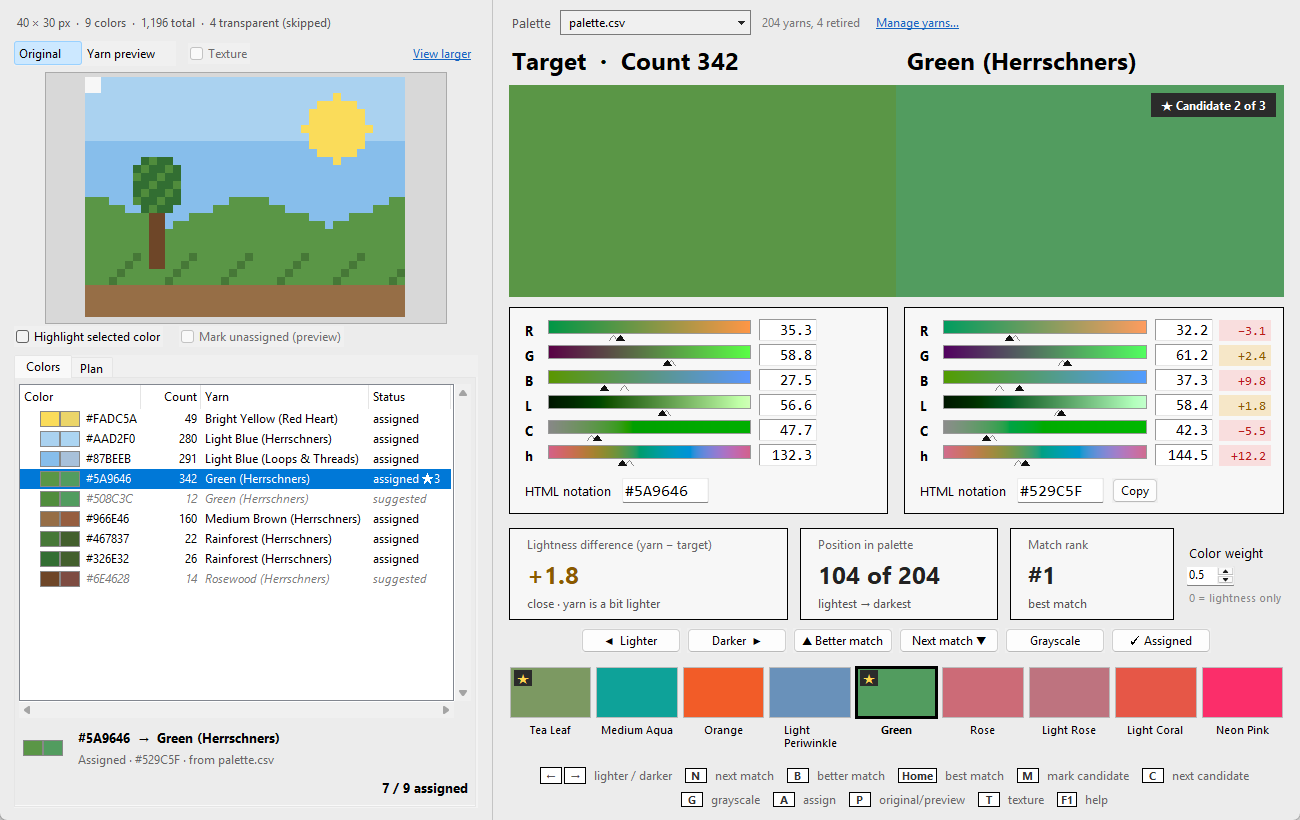
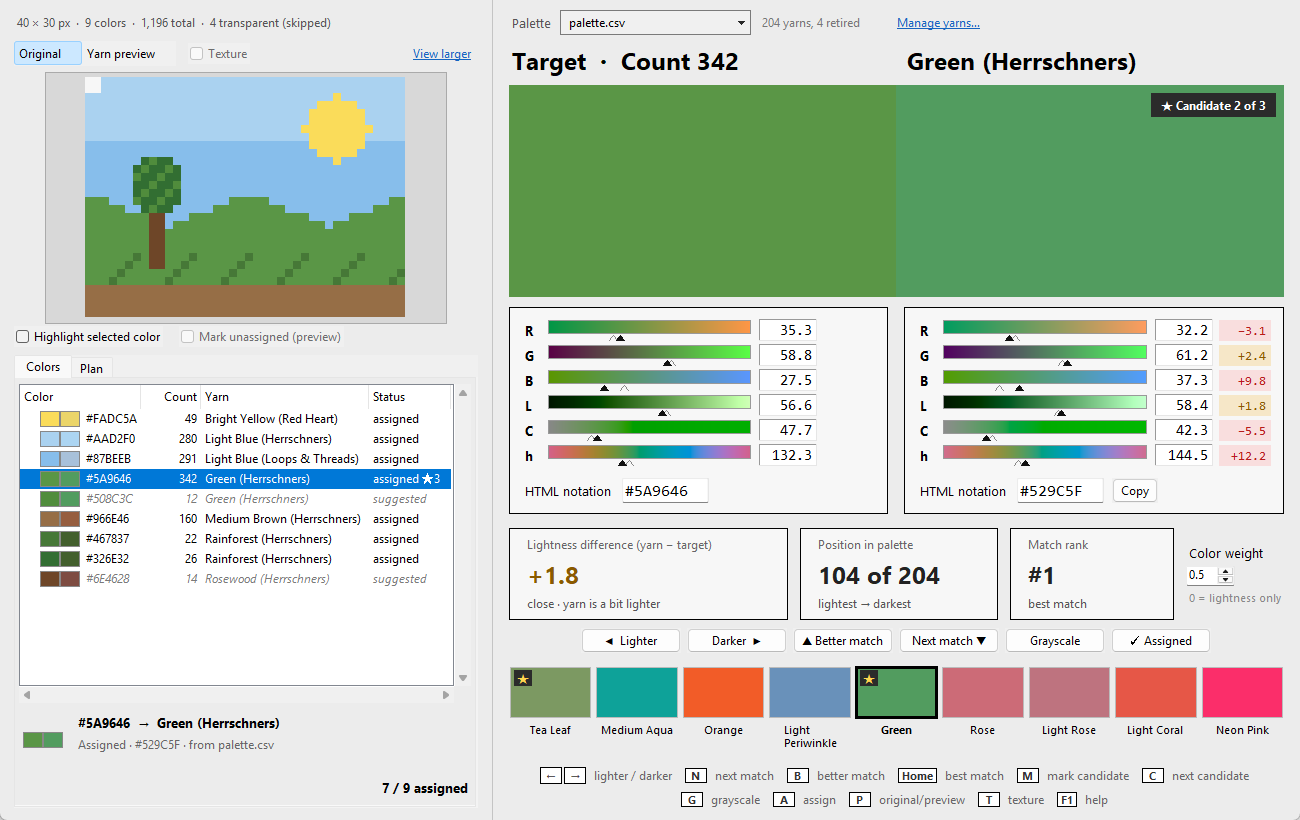
Keep layouts still as text changes
- Colors tab: the selected color's details always take two lines (and
  the swatch spot keeps its size), so the list no longer jumps.
- Main window: the yarn count has a fixed-width slot so Manage yarns
  stays put; the yarn hex message is shorter (no such yarn) and never
  widens its panel, which clipped it and nudged both halves at the
  minimum window size.
- Import: the problem list is always three lines (two + '... and N
  more'), so the table and action row stay put.
- Carry over: the dialog has its full size from the start; the summary,
  conflict and missing-yarn sections fill reserved room.

Changed region(s): [[0.0, 0.8537, 0.2154, 0.9451], [0.6769, 0.0, 0.7385, 0.0305], [0.3385, 0.8232, 0.3692, 0.8537]]

diff --git a/src/latchwork/carry_window.py b/src/latchwork/carry_window.py
@@ -1,6 +1,7 @@
 """Carry over assignments: give a project the yarns earlier projects used for the same hex."""
 import os
 import tkinter as tk
+import tkinter.font as tkfont
 from tkinter import filedialog, messagebox, ttk
 
 from .palette import label as yarn_label
@@ -58,15 +59,26 @@ class CarryDialog(tk.Toplevel):
         ttk.Button(side, text="Add project...", width=14, command=self.add).pack(pady=(0, 4))
         ttk.Button(side, text="Remove", width=14, command=self.remove).pack()
 
-        self.summary = tk.Label(self, bg=BG, font=("Segoe UI", 10, "bold"), justify="left",
+        # Everything below has a fixed size, so the dialog and its buttons stay put as
+        # projects are added: two lines each for the summary and details, and room for the
+        # conflict and missing-yarn sections even while they're empty.
+        bold, small = tkfont.Font(font=("Segoe UI", 10, "bold")), tkfont.Font(font=SMALL)
+        text = tk.Frame(self, bg=BG, height=2 * bold.metrics("linespace")
+                        + 2 * small.metrics("linespace") + 4)
+        text.pack(fill="x", pady=(10, 0))
+        text.pack_propagate(False)
+        self.summary = tk.Label(text, bg=BG, font=("Segoe UI", 10, "bold"), justify="left",
                                 anchor="w", wraplength=520)
-        self.summary.pack(fill="x", pady=(10, 0))
-        self.details = tk.Label(self, bg=BG, font=SMALL, fg="#555", justify="left", anchor="w",
+        self.summary.pack(fill="x")
+        self.details = tk.Label(text, bg=BG, font=SMALL, fg="#555", justify="left", anchor="w",
                                 wraplength=520)
         self.details.pack(fill="x")
+        self.area = tk.Frame(self, bg=BG, width=520)
+        self.area.pack(fill="x")
+        self.area.pack_propagate(False)
 
         # conflicts: the same hex got different yarns in different projects
-        self.conflict_box = tk.Frame(self, bg=BG)
+        self.conflict_box = tk.Frame(self.area, bg=BG)
         tk.Label(self.conflict_box, bg=BG, font=UI_FONT, anchor="w", justify="left",
                  wraplength=520, text="Different yarns for the same color. The newest project is "
                                       "picked; choose another if you like:").pack(fill="x")
@@ -81,9 +93,9 @@ class CarryDialog(tk.Toplevel):
         self.conflict_canvas.create_window(0, 0, window=self.conflict_rows, anchor="nw")
 
         # yarns that aren't in the active palette
-        self.missing_box = tk.Frame(self, bg=BG)
-        self.missing_text = tk.Label(self.missing_box, bg=BG, font=UI_FONT, anchor="w",
-                                     justify="left", wraplength=520)
+        self.missing_box = tk.Frame(self.area, bg=BG)
+        self.missing_text = tk.Label(self.missing_box, bg=BG, font=UI_FONT, anchor="nw",
+                                     justify="left", wraplength=520, height=2)
         self.missing_text.pack(fill="x")
         self.keep_missing = tk.BooleanVar(value=True)
         for value, text in ((True, "Keep them (assigned, as in the earlier project)"),
@@ -99,6 +111,7 @@ class CarryDialog(tk.Toplevel):
         self.bind("<Return>", lambda e: self.accept())
         self.bind("<Escape>", lambda e: self.destroy())
 
+        self.area.configure(height=self._area_height())
         for path in initial:
             self._add_path(path, quiet=True)
         self.rebuild()
@@ -107,6 +120,17 @@ class CarryDialog(tk.Toplevel):
         self.grab_set()
         self.focus_set()
         self.wait_window()
+
+    def _area_height(self):
+        """Room for the most conflict rows shown at once plus the missing-yarn section."""
+        probe = ttk.Combobox(self.conflict_rows, state="readonly", width=46)
+        probe.grid(row=0, column=2, pady=2)
+        self.update_idletasks()
+        row_h = probe.winfo_reqheight() + 4
+        probe.destroy()
+        heading = self.conflict_box.winfo_children()[0].winfo_reqheight()
+        return (10 + heading + 4 + CONFLICT_ROWS * row_h
+                + 10 + self.missing_box.winfo_reqheight())
 
     # ---------- sources ----------
     def _add_path(self, path, quiet=False):
@@ -186,7 +210,10 @@ class CarryDialog(tk.Toplevel):
                 self.conflict_scroll.pack(side="left", fill="y")
             else:
                 self.conflict_scroll.pack_forget()
-            self.conflict_box.pack(fill="x", pady=(10, 0), before=self.btns)
+            if self.missing_box.winfo_manager():
+                self.conflict_box.pack(fill="x", pady=(10, 0), before=self.missing_box)
+            else:
+                self.conflict_box.pack(fill="x", pady=(10, 0))
         else:
             self.conflict_box.pack_forget()
         self.update_view()
@@ -216,7 +243,7 @@ class CarryDialog(tk.Toplevel):
             self.missing_text.config(text="%d carried-over yarn%s %s in the active palette: %s."
                                      % (len(names), "" if len(names) == 1 else "s",
                                         "isn't" if len(names) == 1 else "aren't", _names(names)))
-            self.missing_box.pack(fill="x", pady=(10, 0), before=self.btns)
+            self.missing_box.pack(fill="x", pady=(10, 0))
         else:
             self.missing_box.pack_forget()
         if not self.sources:

diff --git a/src/latchwork/project_panel.py b/src/latchwork/project_panel.py
@@ -168,14 +168,16 @@ class ProjectPanel(tk.Frame):
         self.progress.pack(side="right")
         info = tk.Frame(tab, bg=BG)
         info.pack(side="bottom", fill="x", pady=(8, 0))
-        self.info_swatch = tk.Label(info, bg=BG)
+        self._no_pair = tk.PhotoImage(width=40, height=16)   # keeps the text in place
+        self.info_swatch = tk.Label(info, bg=BG, image=self._no_pair)
         self.info_swatch.pack(side="left", padx=(2, 10))
         text = tk.Frame(info, bg=BG)
         text.pack(side="left", fill="x", expand=True)
         self.info_title = tk.Label(text, font=("Segoe UI", 10, "bold"), bg=BG, anchor="w")
         self.info_title.pack(fill="x")
-        self.info_sub = tk.Label(text, font=("Segoe UI", 9), bg=BG, fg="#666", anchor="w",
-                                 justify="left", wraplength=IMG_W - 70)
+        # always two lines high, so the list above doesn't jump as the text changes
+        self.info_sub = tk.Label(text, font=("Segoe UI", 9), bg=BG, fg="#666", anchor="nw",
+                                 justify="left", wraplength=IMG_W - 70, height=2)
         self.info_sub.pack(fill="x")
 
         body = tk.Frame(tab, bg=BG)
@@ -383,7 +385,7 @@ class ProjectPanel(tk.Frame):
         self.progress.config(text="%d / %d assigned" % (p.assigned_count, len(p.colors)))
         c = p.entry(self.selected_hex()) if self.selected_hex() else None
         if c is None:
-            self.info_swatch.config(image="")
+            self.info_swatch.config(image=self._no_pair)
             self.info_title.config(text="No color selected")
             self.info_sub.config(text="Pick a color in the list or click the image, then step "
                                       "through yarns and press Assign (A).")

diff --git a/src/latchwork/palette_window.py b/src/latchwork/palette_window.py
@@ -1082,8 +1082,9 @@ class ImportDialog(tk.Toplevel):
         self.name_entry.pack(side="left")
         self.name_var.trace_add("write", lambda *_: self.set_name())
 
-        self.problems = tk.Label(self, font=UI_FONT, bg=BG, fg="#B00020", anchor="w",
-                                 justify="left", wraplength=820)
+        # three lines, always: the table and the controls above stay put as problems come and go
+        self.problems = tk.Label(self, font=UI_FONT, bg=BG, fg="#B00020", anchor="nw",
+                                 justify="left", height=3)
         self.problems.pack(fill="x", pady=(8, 0))
         btns = tk.Frame(self, bg=BG)
         btns.pack(fill="x", pady=(8, 0))
@@ -1123,8 +1124,9 @@ class ImportDialog(tk.Toplevel):
             self.tree.set(str(i), "action", label)
         problems = pal.import_problems(self.bank, self.items)
         self.draw_badges(problems)
-        self.problems.config(text="\n".join(problems[:4]) + (
-            "\n... and %d more" % (len(problems) - 4) if len(problems) > 4 else ""))
+        shown = problems if len(problems) <= 3 else problems[:2] + [
+            "... and %d more" % (len(problems) - 2)]
+        self.problems.config(text="\n".join(shown))
         self.ok.state(["disabled"] if problems else ["!disabled"])
 
     # (outcome key, label, text/outline color, fill)

diff --git a/src/latchwork/app.py b/src/latchwork/app.py
@@ -379,7 +379,9 @@ class App:
         self.palette_button.pack()
         self.palette_dropdown = tk.Menu(self.palette_button, tearoff=False)
         self.palette_button["menu"] = self.palette_dropdown
-        self.palette_info = tk.Label(bar, font=("Segoe UI", 9), bg=BG, fg="#777")
+        # a fixed width, so "Manage yarns…" stays put as the count changes
+        self.palette_info = tk.Label(bar, font=("Segoe UI", 9), bg=BG, fg="#777", width=17,
+                                     anchor="w")
         self.palette_info.pack(side="left")
         manage = tk.Label(bar, text="Manage yarns…", font=("Segoe UI", 9, "underline"),
                           bg=BG, fg="#1565C0", cursor="hand2")
@@ -1163,7 +1165,7 @@ class App:
             return
         i = next((k for k, y in enumerate(self.yarns) if y.rgb == rgb), None)
         if i is None:
-            self.yarn_panel.status.config(text="no yarn with this hex")
+            self.yarn_panel.status.config(text="no such yarn")
             return
         self.yarn_panel.status.config(text="")
         self.jump_to(i)

diff --git a/src/latchwork/widgets.py b/src/latchwork/widgets.py
@@ -268,8 +268,10 @@ class ColorPanel(tk.Frame):
         self.entry.grid(row=0, column=1, padx=8)
         if on_copy:
             ttk.Button(html, text="Copy", width=6, command=on_copy).grid(row=0, column=2)
-        self.status = tk.Label(html, text="", font=("Segoe UI", 9), bg=PANEL_BG, fg="#B00020")
-        self.status.grid(row=0, column=3, sticky="w", padx=4)
+        # width=1: the message uses the room that's there and never widens the panel
+        self.status = tk.Label(html, text="", font=("Segoe UI", 9), bg=PANEL_BG, fg="#B00020",
+                               width=1, anchor="w")
+        self.status.grid(row=0, column=3, sticky="ew", padx=4)
         self.note = None
         if note is not None:
             self.note = FieldNote(html, PANEL_BG, note)
